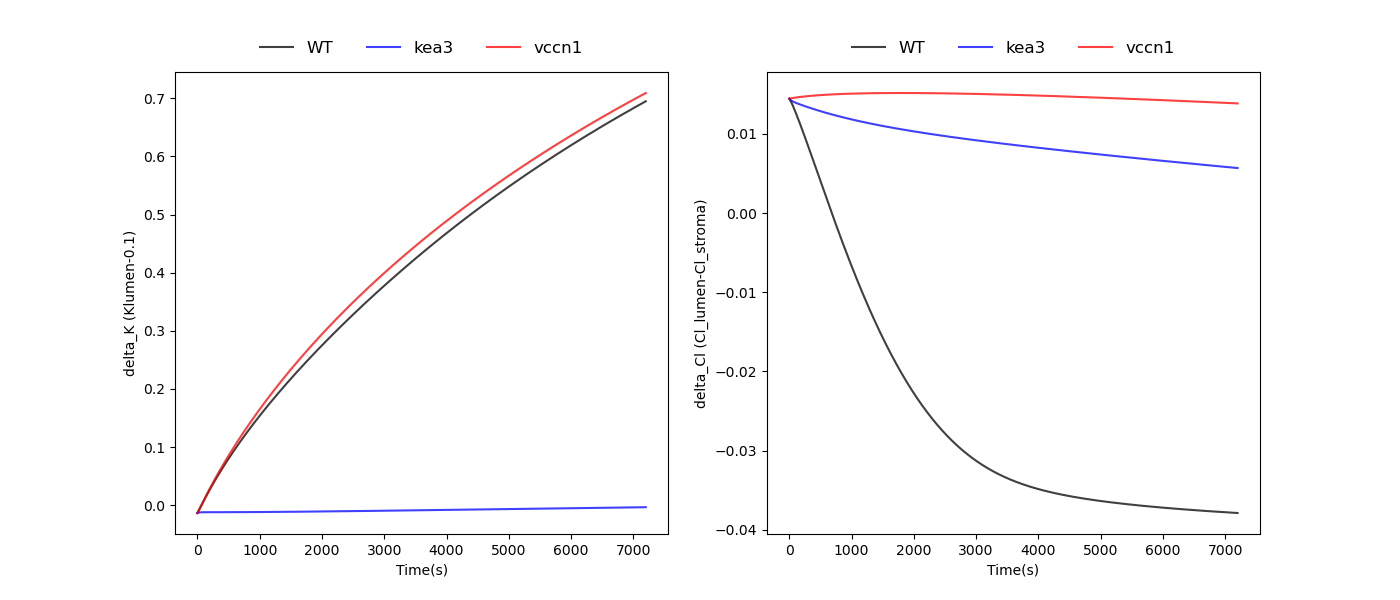
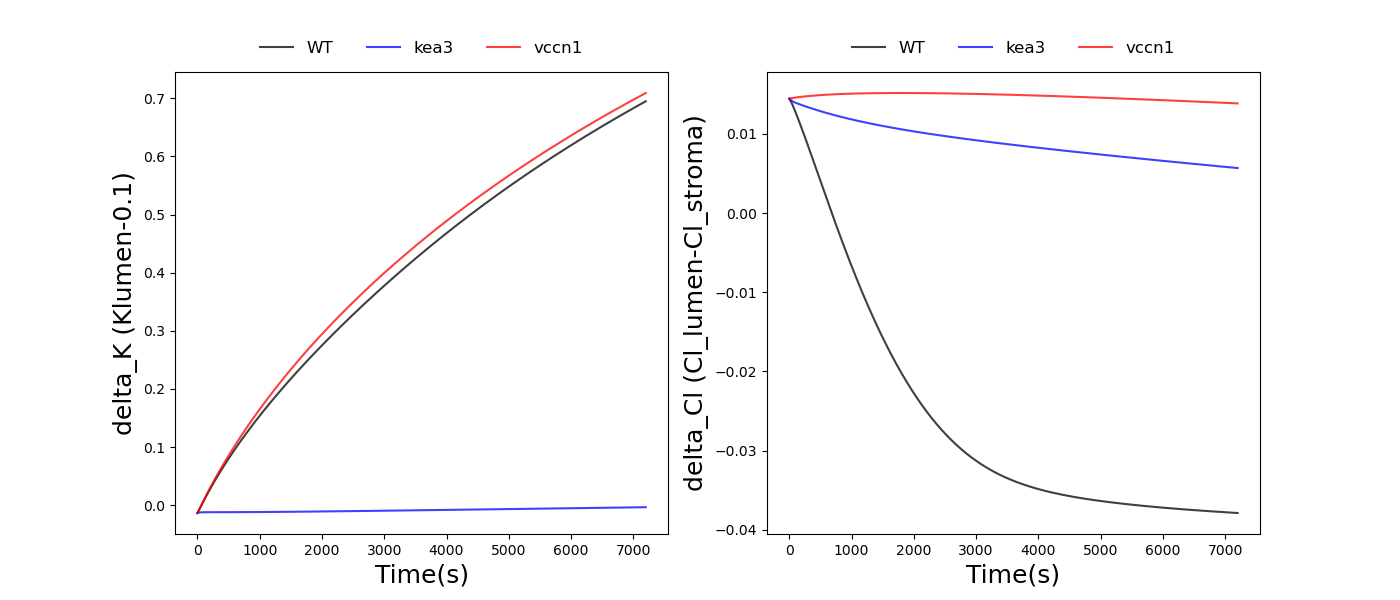
delta_charges_ATP_pmf

diff --git a/PMF_dark/pmf_dark_2.0/2_dark_delta.py b/PMF_dark/pmf_dark_2.0/2_dark_delta.py
@@ -120,8 +120,10 @@ initial=[dpHlumen_initial, dDy_initial, dpmf_initial, dKlumen_initial, dKstroma_
 
 t = np.arange(0,7200,0.1)
 
-gtypes = ['WT', 'kea3', 'vccn1']
-colors = ['black', 'blue', 'red']
+# gtypes = ['WT', 'kea3', 'vccn1']
+gtypes = ['kea3']
+# colors = ['black', 'blue', 'red']
+colors = ['blue']
 variables = ['pHlumen', 'Dy', 'pmf', 'Klumen', 'Kstroma', 'Cl_lumen', 'Cl_stroma', 'Hstroma', 'pHstroma']
 
 results = {}
@@ -139,19 +141,19 @@ stroma_total = {gtype: results[gtype][:,6] + 0.1 for gtype in gtypes}
 delta_total = {gtype: lumen_total[gtype] - stroma_total[gtype]
                for gtype in gtypes}
 
-for gtype in gtypes:
-    print(f"Genotype: {gtype}")
-    print(f"Lumen Total (First 10): {lumen_total[gtype][:10]}")
-    print(f"Stroma Total (First 10): {stroma_total[gtype][:10]}")
-    print(f"Delta Total (First 10): {delta_total[gtype][:10]}")
+# for gtype in gtypes:
+#     print(f"Genotype: {gtype}")
+#     print(f"Lumen Total (First 10): {lumen_total[gtype][:10]}")
+#     print(f"Stroma Total (First 10): {stroma_total[gtype][:10]}")
+#     print(f"Delta Total (First 10): {delta_total[gtype][:10]}")
 
 plt.figure(figsize=(14,6))
 
 for idx, gtype in enumerate(gtypes):
     plt.plot(t,delta_total[gtype], label = gtype, color = colors[idx], alpha = 0.75)
     
-plt.xlabel('Time(s)', fontsize = 18)
-plt.ylabel('delta_total (lumen_total-stroma_total)',  fontsize = 18)
+plt.xlabel('Time(s)', fontsize = 16)
+plt.ylabel('delta_total (lumen_total-stroma_total)',  fontsize = 16)
 plt.legend(
     loc = 'upper center',
     bbox_to_anchor = (0.5,1.1),
@@ -162,8 +164,8 @@ plt.legend(
 # plt.subplot(1,2,1)
 # for idx, gtype in enumerate(gtypes):
 #     plt.plot(t, delta_K[gtype], label = gtype, color = colors[idx], alpha = 0.75)
-# plt.xlabel('Time(s)')
-# plt.ylabel('delta_K (Klumen-0.1)')
+# plt.xlabel('Time(s)', fontsize=18)
+# plt.ylabel('delta_K (Klumen-0.1)', fontsize=18)
 # # plt.title
 # plt.legend(
 #     loc = "upper center",
@@ -177,8 +179,8 @@ plt.legend(
 # plt.subplot(1,2,2)
 # for idx, gtype in enumerate(gtypes):
 #     plt.plot(t, delta_Cl[gtype], label = gtype, color = colors[idx], alpha = 0.75)
-# plt.xlabel('Time(s)')
-# plt.ylabel('delta_Cl (Cl_lumen-Cl_stroma)')
+# plt.xlabel('Time(s)', fontsize=18)
+# plt.ylabel('delta_Cl (Cl_lumen-Cl_stroma)', fontsize=18)
 # # plt.title
 # plt.legend(
 #     loc = "upper center",

diff --git a/PMF_dark/pmf_dark_2.0/3_dark_ATP.py b/PMF_dark/pmf_dark_2.0/3_dark_ATP.py
@@ -95,6 +95,7 @@ def model(y,t):
 
     #dpmf #pHlumen正负号
     dpmf= -0.06* dpHlumen + dDy
+    # dpmf= 0.06* dpHlumen + dDy
 
     return [dpHlumen, dDy, dpmf, dKlumen, dKstroma, dCl_lumen, dCl_stroma,dHstroma, dpHstroma]
 
@@ -122,7 +123,7 @@ dpHstroma_initial = 7.8
 initial=[dpHlumen_initial, dDy_initial, dpmf_initial, dKlumen_initial, dKstrom_initial, 
          dCl_lumen_initial, dCl_stroma_initial, dHstroma_initial, dpHstroma_initial]
 
-t = np.arange(0,7200,0.1)
+t = np.arange(0,1200,0.1)
 
 gtypes = ['WT', 'kea3', 'vccn1']
 colors = ['black', 'blue', 'red']
